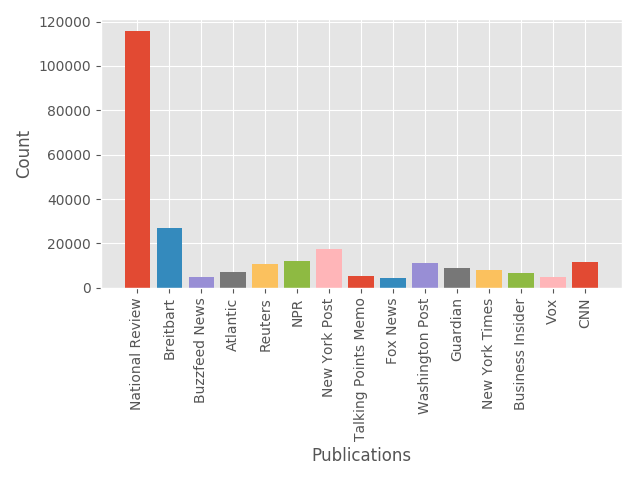
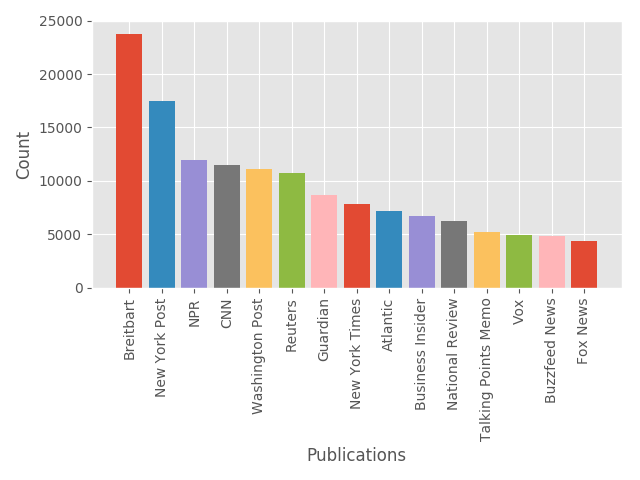
Train data distribution

diff --git a/PPE.py b/PPE.py
@@ -1,28 +1,28 @@
 import csv
 import glob
+import itertools
 import json
+import operator
+import pprint
 import random
 import string
 import sys
 from collections import defaultdict, Counter
-import itertools
-import pprint
-import matplotlib.pyplot as plt
 
+import matplotlib.pyplot as plt
 import nltk
 import numpy as np
-from matplotlib import cm
 from nltk.corpus import stopwords, wordnet
 from nltk.sentiment import SentimentIntensityAnalyzer
 from pygments.util import xrange
+from sklearn import metrics
 from sklearn.decomposition import PCA
 from sklearn.ensemble import RandomForestClassifier
-from sklearn.feature_extraction.text import TfidfVectorizer, CountVectorizer
+from sklearn.feature_extraction.text import TfidfVectorizer
 from sklearn.linear_model import SGDClassifier
 from sklearn.metrics.pairwise import cosine_similarity
 from sklearn.model_selection import GridSearchCV
 from sklearn.model_selection import train_test_split
-
 from sklearn.naive_bayes import MultinomialNB
 from sklearn.pipeline import Pipeline
 from textblob import TextBlob
@@ -32,7 +32,8 @@ from wordcloud import WordCloud
 from miners.GoogleMiner import GoogleMiner
 from miners.NewsMiner import NewsMiner
 from miners.TwitterMiner import TwitterMiner
-from sklearn import metrics
+
+plt.style.use('ggplot')
 
 
 def get_tweets():
@@ -439,37 +440,6 @@ def svm_train_experiment_5():
     cm = metrics.confusion_matrix(y_test, y_predicted)
     print(cm)
 
-    pipeline = Pipeline([
-        ('tfidf', TfidfVectorizer())
-    ])
-    random_samples = sorted(random.sample(xrange(len(docs_train)), 1000))
-    data = pipeline.fit_transform([docs_train[i] for i in random_samples]).todense()
-    pca = PCA(n_components=2).fit(data)
-    X = pca.transform(data)
-    # plt.scatter(X[:, 0], X[:, 1], c=[y_train[i] for i in random_samples])
-    # plt.show()  # not required if using ipython notebook
-    #
-    # # plot separating hyperplanes and samples
-    plt.scatter(X[:, 0], X[:, 1], c=[y_train[i] for i in random_samples], cmap=plt.cm.Paired, edgecolors='k')
-    plt.legend()
-
-    # plot the decision functions for both classifiers
-    ax = plt.gca()
-    xlim = ax.get_xlim()
-    ylim = ax.get_ylim()
-
-    # create grid to evaluate model
-    xx = np.linspace(xlim[0], xlim[1], 30)
-    yy = np.linspace(ylim[0], ylim[1], 30)
-    YY, XX = np.meshgrid(yy, xx)
-    xy = np.vstack([XX.ravel(), YY.ravel()]).T
-
-    # get the separating hyperplane
-    Z = clf.decision_function(xy).reshape(XX.shape)
-    # plot decision boundary and margins
-    a = ax.contour(XX, YY, Z, colors='k', levels=[0], alpha=0.5, linestyles=['-'])
-    plt.show()
-
 
 def rf_train_experiment_7():
     articles, labels = get_train_articles()
@@ -634,24 +604,26 @@ def experiment_train_data_distribution():
         data = json.load(fin)
         for i, rec in enumerate(data):
             publications.append(rec['publication'])
-    pub_count = Counter(publications)
+    pub_count = sorted(Counter(publications).items(), key=lambda x: x[1], reverse=True)
+
     pub_name, pub_val = [], []
-    for k, v in pub_count.items():
-        pub_name.append(k)
-        pub_val.append(v)
+    for p in pub_count:
+        pub_name.append(p[0])
+        pub_val.append(p[1])
 
     print("Total Test Data Size :", len(train_labels))
     print(label_counts)
     print(pub_count)
 
-    plt.style.use('ggplot')
-
+    # Plot Label Distribution
     plt.bar(["0", "1"], [label_counts[0], label_counts[1]], color=plt.rcParams['axes.prop_cycle'].by_key()['color'])
     plt.xlabel("Labels")
     plt.ylabel("Count")
     plt.tight_layout()
     plt.savefig("plots/train-label-distribution.png")
+    plt.close()
 
+    # Plot Publication Distribution
     pub_x = np.arange(len(pub_name))
     print(pub_x)
     set_facecolor(plt.bar(pub_x, pub_val, color=plt.rcParams['axes.prop_cycle'].by_key()['color']))
@@ -660,16 +632,29 @@ def experiment_train_data_distribution():
     plt.ylabel("Count")
     plt.tight_layout()
     plt.savefig("plots/train-publication-distribution.png")
+    plt.close()
+
+    # Plot Test Data Distribution
+    pipeline = Pipeline([
+        ('tfidf', TfidfVectorizer())
+    ])
+    random_samples = sorted(random.sample(xrange(len(train_data)), 1000))
+    data = pipeline.fit_transform([train_data[i] for i in random_samples]).todense()
+    pca = PCA(n_components=2).fit(data)
+    X = pca.transform(data)
+    plt.scatter(X[:, 0], X[:, 1], c=[train_labels[i] for i in random_samples])
+    plt.savefig("plots/train-data-distribution.png")
+    plt.close()
 
 
 if __name__ == "__main__":
     # experiment_1()
     # generate_articles_test_data()
-    # experiment_train_data_distribution()
+    experiment_train_data_distribution()
     # nb_train_experiment_2()
     # nb_test_experiment_3()
     # experiment_4()
-    svm_train_experiment_5()
+    # svm_train_experiment_5()
     # svm_test_experiment_6()
     # rf_train_experiment_7()
     # get_articles()
